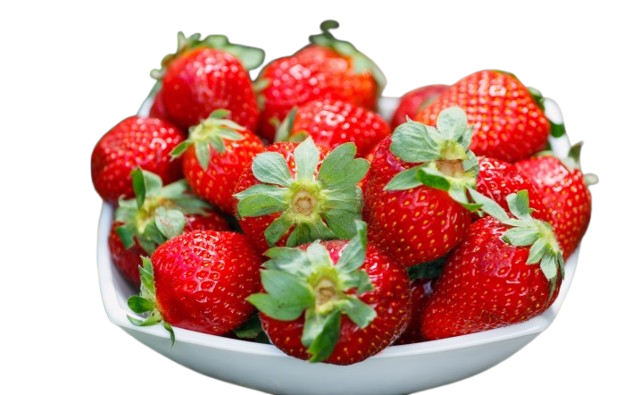
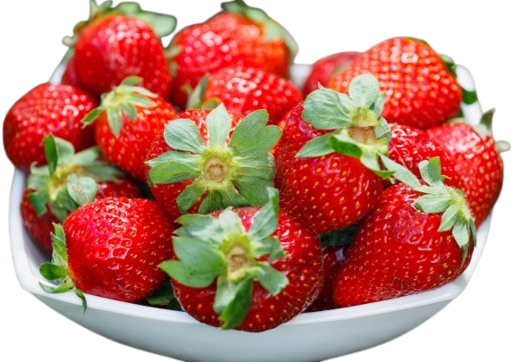
add Points

diff --git a/MoleGame/index.js b/MoleGame/index.js
@@ -1,6 +1,7 @@
-let body = document.body;
-let pits = document.querySelectorAll('.pit');
-let nastya = document.querySelector('.nastya');
+const body = document.body;
+const pits = document.querySelectorAll('.pit');
+const nastya = document.querySelector('.nastya');
+const pointsDiv = document.querySelector('.points')
 let points = 0;
 let nastyaInterval;
 
@@ -23,18 +24,22 @@ function moveNastya() {
     if (nastyaPos.top > max) {
       nastya.style.top = nastyaPos.top - 3 + 'px';
     } else {
+      points -= 25
+      pointsDiv.textContent = points
       clearInterval(nastyaInterval);
       nastya.style.display = 'none';
-      setTimeout(showNastya, 1000);
+      setTimeout(showNastya, speed*10);
     }
   }, speed);
 }
 
 nastya.addEventListener('click', () => {
   points += 50
+  pointsDiv.textContent = points
   clearInterval(nastyaInterval);
   nastya.style.display = 'none';
   setTimeout(showNastya, 1000);
 })
 
+// can add menu and dificulties but do this in another projects
 showNastya();

diff --git a/MoleGame/main.html b/MoleGame/main.html
@@ -8,7 +8,7 @@
   <style>
     * {
       --main-color: #f9ed69;
-      --secondary-color: #c9d6df;
+      --secondary-color: #f08a5d;
       --third-color: #1e2022;
     }
 
@@ -39,6 +39,7 @@
     }
 
     .nastya{
+      cursor: pointer;
       position: absolute;
       display: none;
       background-image: url(images/nastya.png);
@@ -46,6 +47,21 @@
       background-size: cover;
       width: 160px;
       height: 180px;
+    }
+
+    .points {
+      z-index: 10;
+      display: block;
+      position: absolute;
+      top: 5vh;
+      right: 5vh;
+      padding: 5vh;
+      border-radius: 20px;
+      font-family: monospace;
+      font-weight: bold;
+      font-size: 24px;
+      color: #dbe2ef;
+      background-color: var(--secondary-color);
     }
   </style>
 </head>
@@ -55,6 +71,7 @@
   <div class="pit"></div>
   <div class="pit"></div>
   <div class="nastya"></div>
+  <div class="points">0</div>
   <script src="index.js"></script>
 </body>
 
